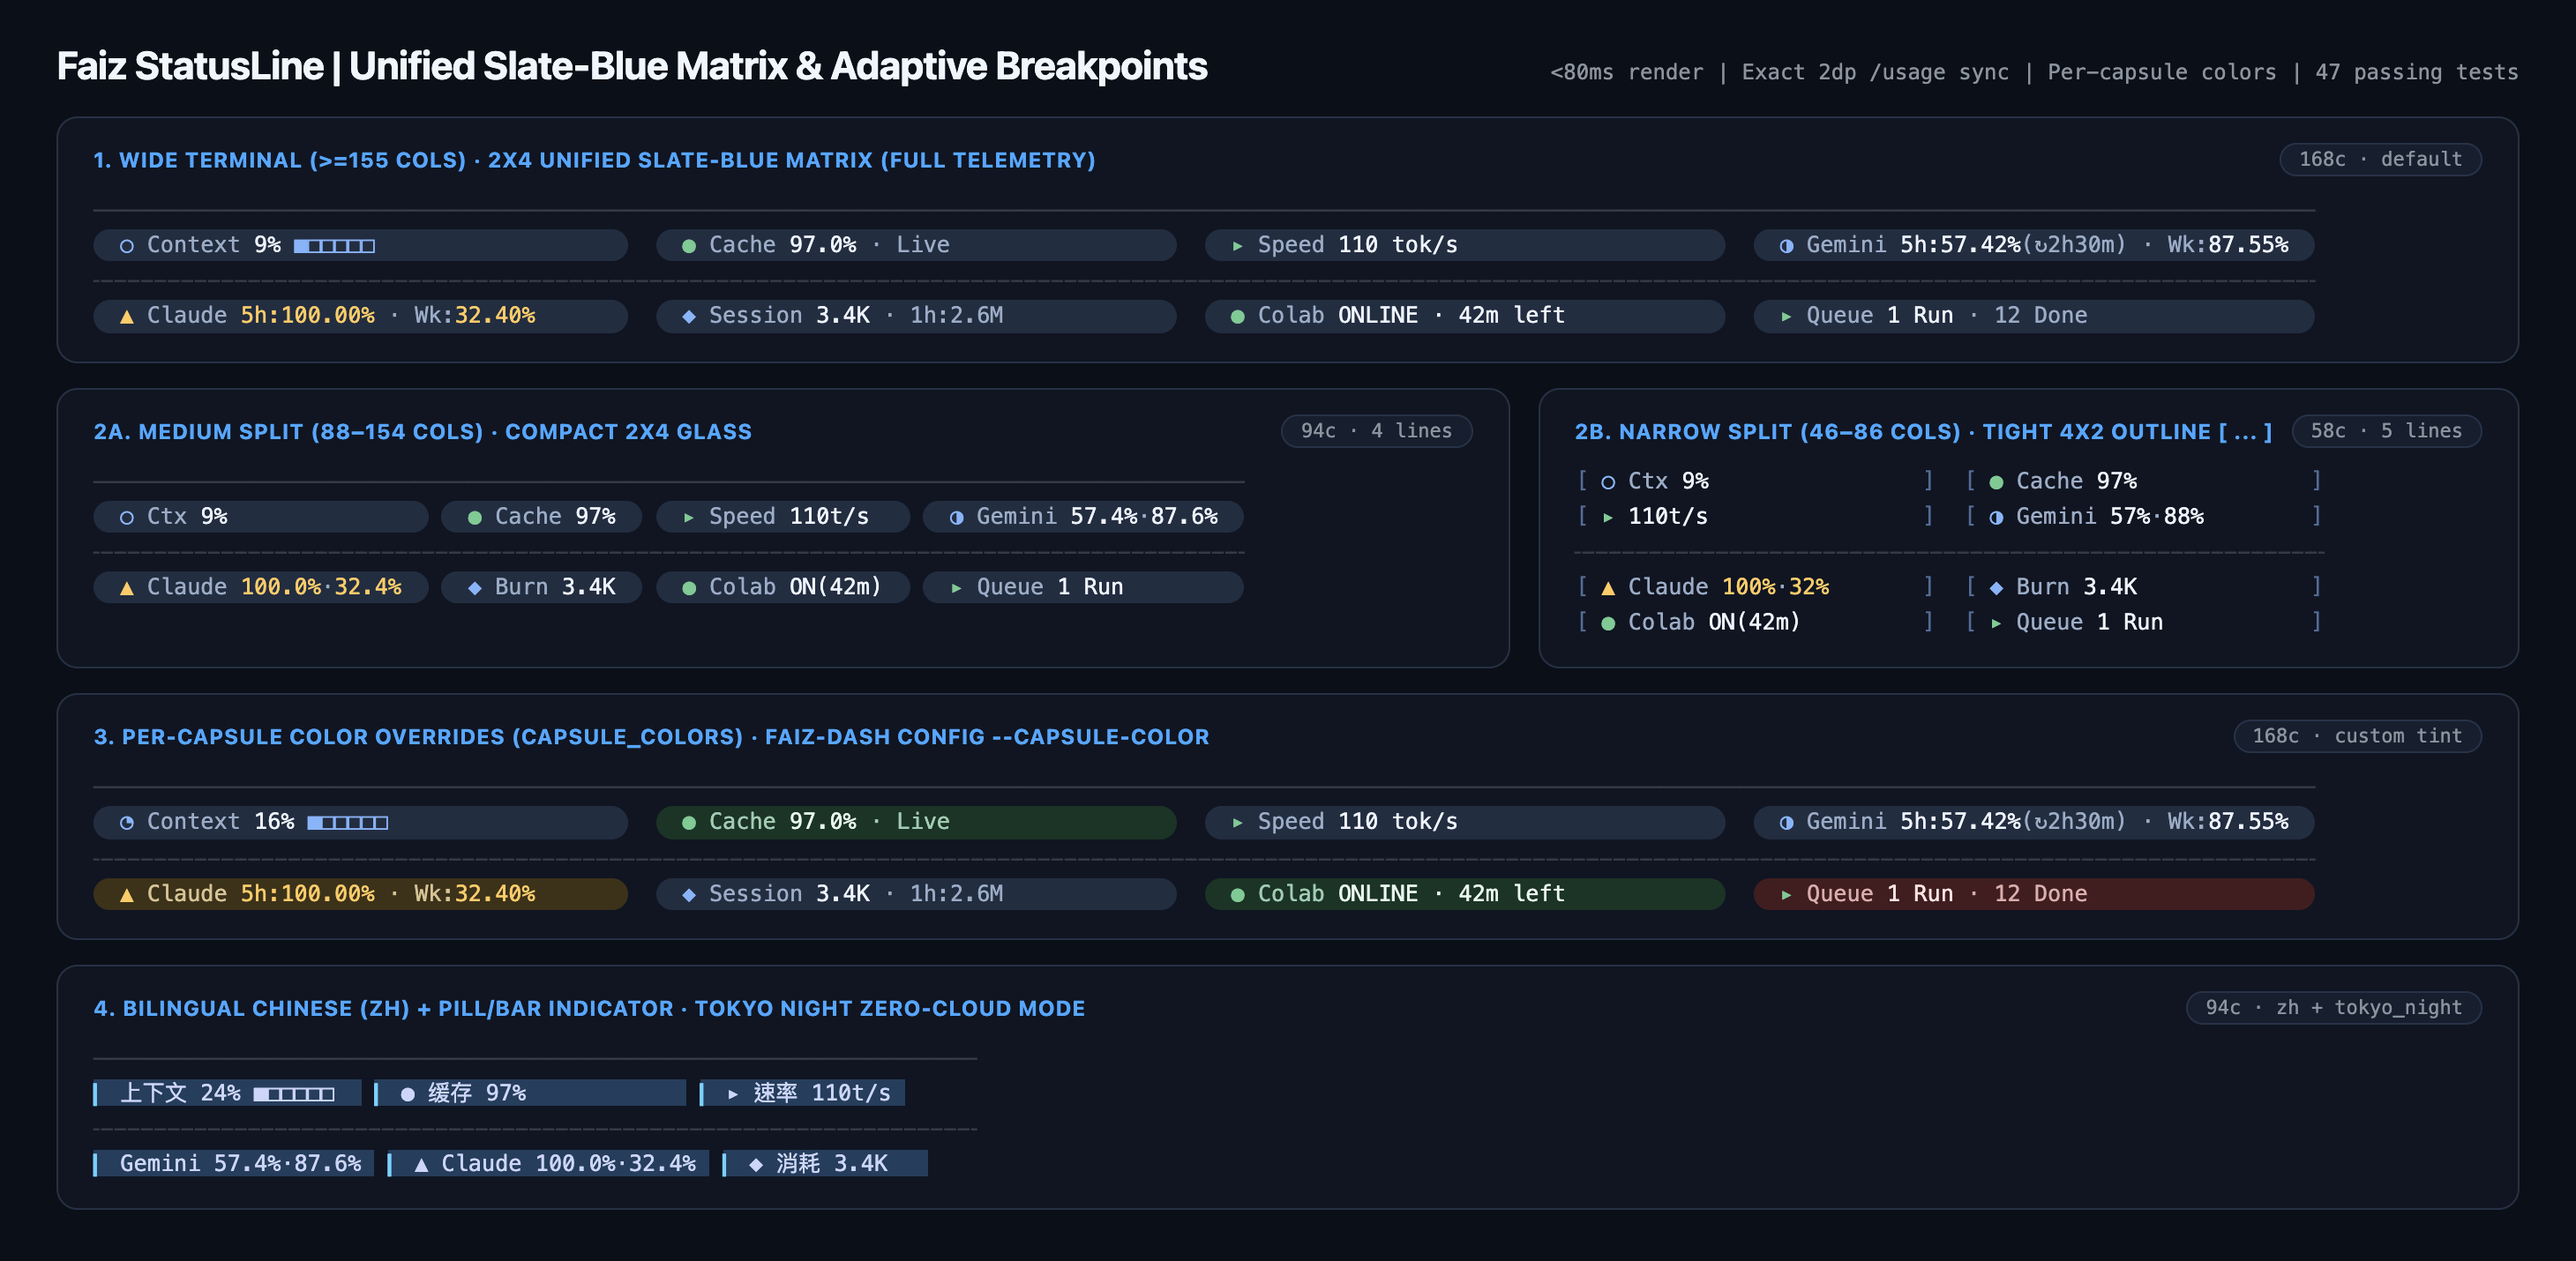
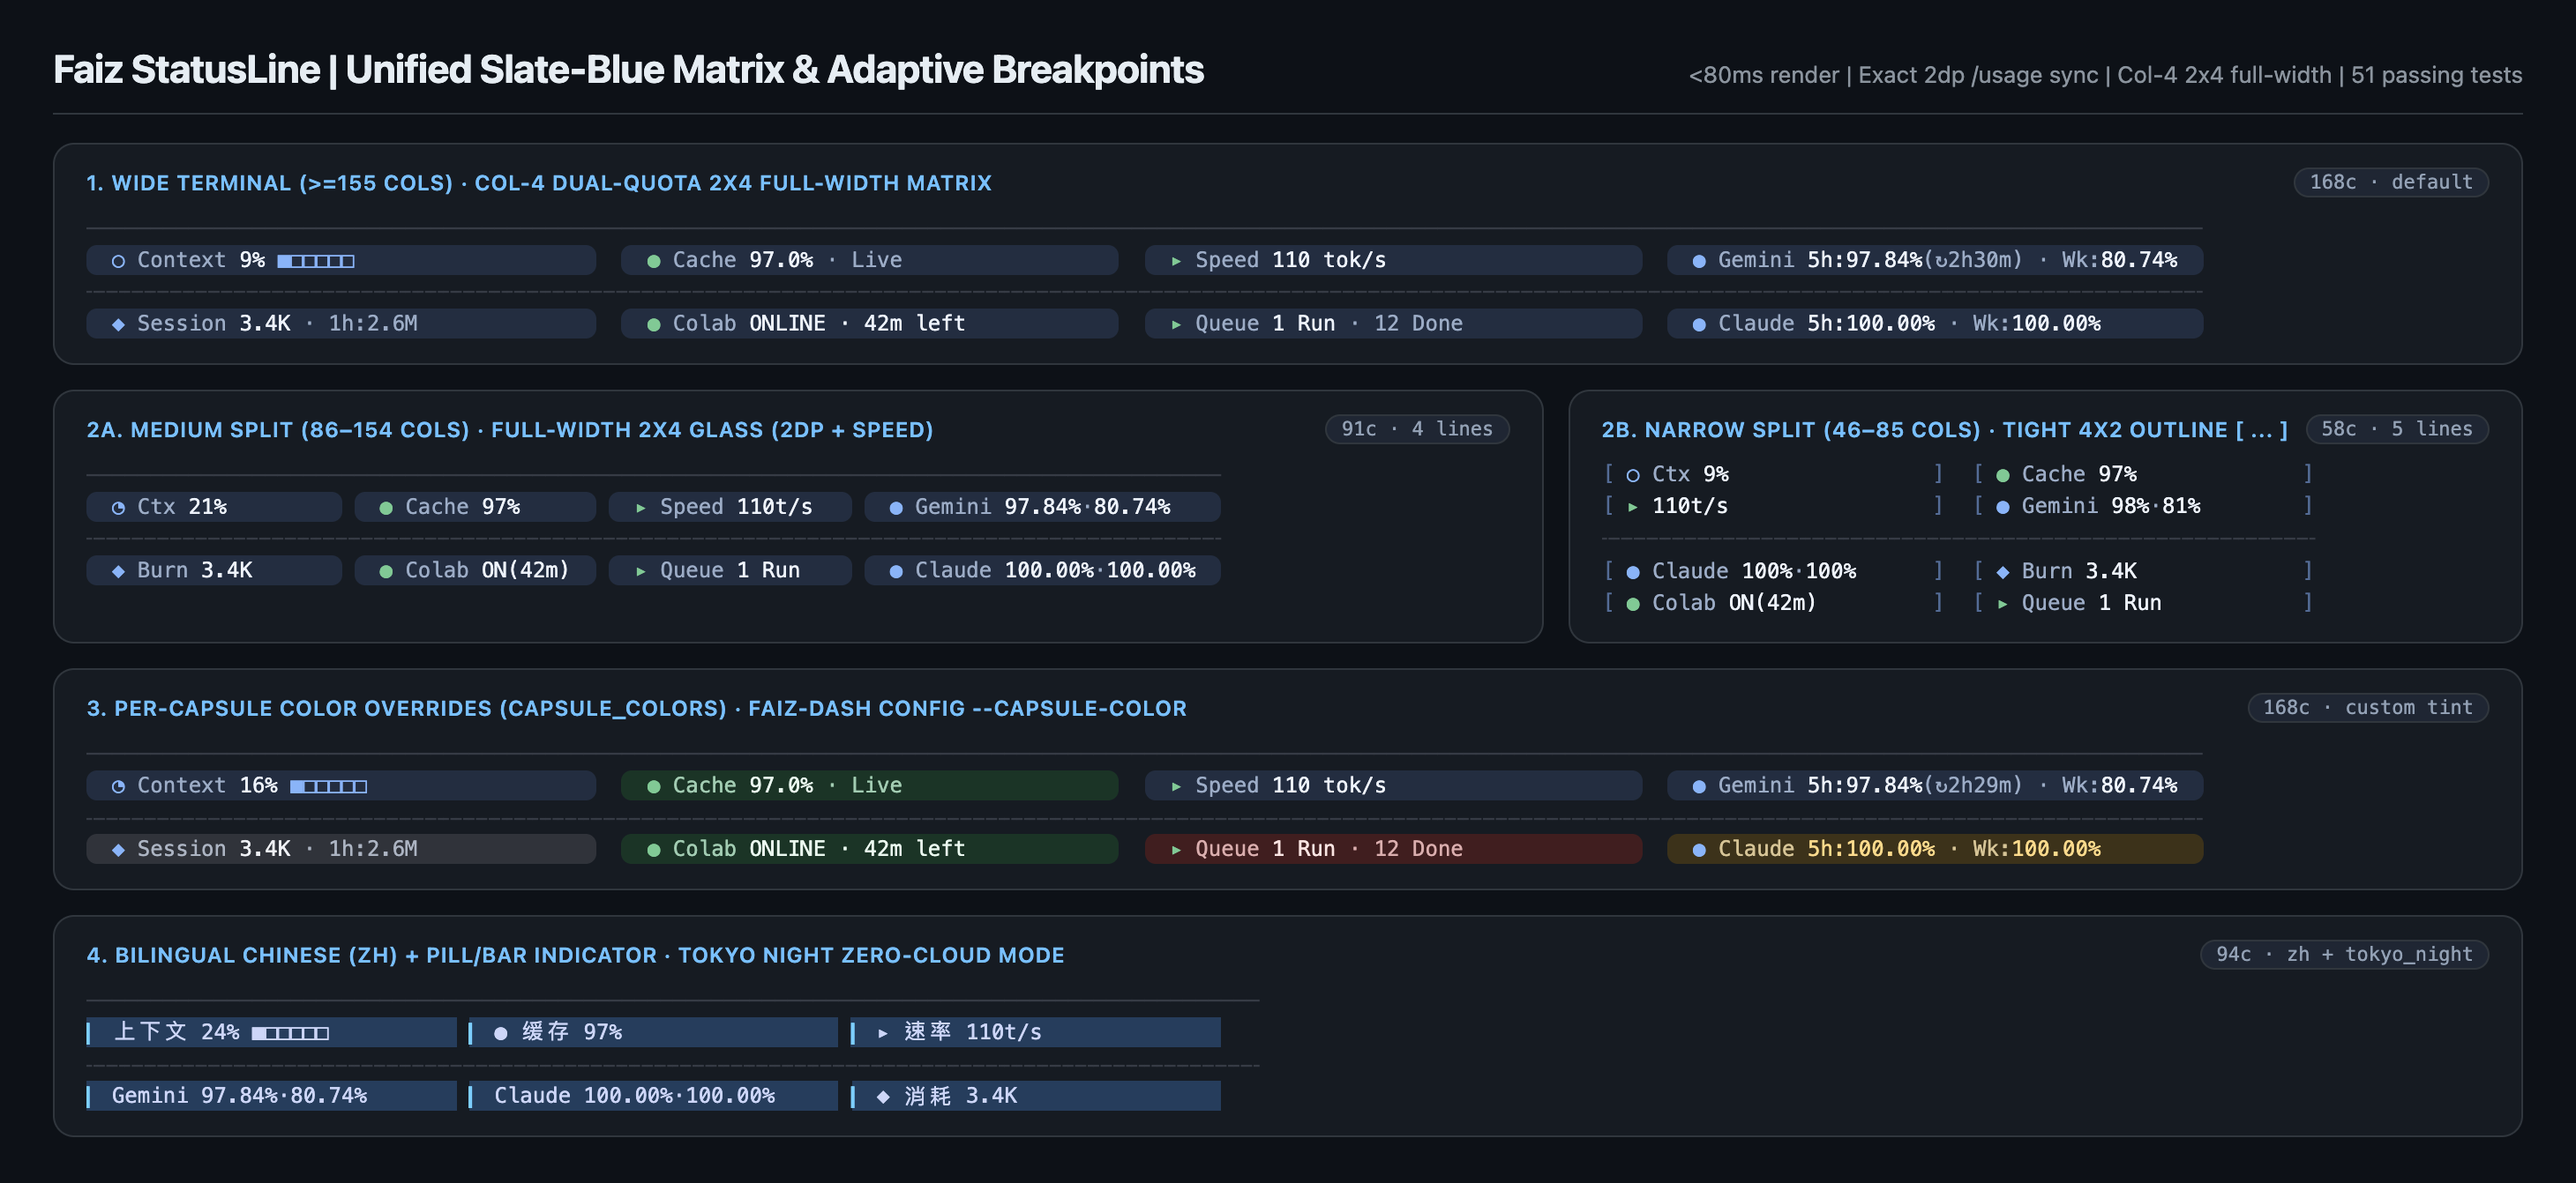
chore(release): bump to v0.2.1, refresh hero showcase, and sync docs

diff --git a/docs/site/index.html b/docs/site/index.html
@@ -258,7 +258,7 @@
     <header class="topbar">
       <div class="brand">
         <span>Faiz Control Center</span>
-        <span class="brand-pill">faiz-dash v0.2</span>
+        <span class="brand-pill">faiz-dash v0.2.1</span>
       </div>
       <nav class="nav-links">
         <a href="#features">Features</a>
@@ -305,7 +305,7 @@
       <div class="grid-2">
         <div class="card">
           <h3>&lt;80ms Responsive Matrix StatusLine</h3>
-          <p>Pure Bash + <code>jq</code> renders sub-80ms 2-bucket <code>Gemini + Claude</code> telemetry in unified deep slate-blue: wide <code>2&times;4</code> bento spread (<code>&gt;=155c</code>), compact 4-line <code>2&times;4</code> glass (<code>88–154c</code>), tight 5-line <code>4&times;2</code> slate-blue <code>[ ... ]</code> outline (<code>46–86c</code>), plus per-capsule color overrides (<code>capsule_colors</code>) and Apple Terminal 16-color fallback.</p>
+          <p>Pure Bash + <code>jq</code> renders sub-80ms 2-bucket <code>Gemini + Claude</code> telemetry in unified deep slate-blue: Col-4 stacked <code>2&times;4</code> full-width water-fill across wide/ultrawide (<code>&gt;=155c</code>, uncapped) and split panes (<code>86–154c</code>, keeping exact 2dp parity, <code>Speed</code> label, and new-session placeholders), tight 5-line <code>4&times;2</code> slate-blue <code>[ ... ]</code> outline (<code>46–85c</code>), plus per-capsule color overrides (<code>capsule_colors</code>) and Apple Terminal 16-color fallback.</p>
         </div>
         <div class="card">
           <h3>Exact 2dp /usage Sync (20s Active / 180s Idle)</h3>

diff --git a/src/faiz_dash/__init__.py b/src/faiz_dash/__init__.py
@@ -1,4 +1,4 @@
 """Faiz Control Center v0.2 package."""
 
-__version__ = "0.2.0"
+__version__ = "0.2.1"
 __all__ = ["__version__"]

diff --git a/README.zh-CN.md b/README.zh-CN.md
@@ -15,7 +15,7 @@
 ## 核心特性
 
 - **`/usage` 双组实时配额对齐（`GEMINI MODELS` + `CLAUDE AND GPT MODELS`）**：通过隔离 PTY 探针采集 5 小时与每周剩余配额（带 `flock` 并发锁，以及基于 `Within each group` 与 `rfind()` 的动态尾帧收敛，兼顾极速返回与防重绘撕裂）；当检测到活跃对话消耗配额时自动切换为 **20 秒高频后台刷新**（空闲保持 180 秒零消耗）。当无独立 Argon 分组时自动以 `Claude` 胶囊与 TUI 面板行替代呈现，同时向后兼容旧版三分组快照与 `capsule_colors.argon` 配色覆盖。
-- **`<80ms` 纯 Bash + `jq` 热路径渲染**：永不阻塞输入提示符。采用统一**深石板蓝**默认视觉与四级自适应矩阵：宽屏（`>=155` 列）自动扩展为完整标签 **`2×4` 铺满矩阵**，中屏分屏（`88–154` 列）保持 **4 行紧凑 `2×4` 玻璃胶囊**（内建 `cold` 标签兜底防塌缩），窄屏分屏（`46–86` 列）自动收紧为 **5 行 `4×2` 石板蓝线框 `[ ... ]` 胶囊**，并支持 `Apple_Terminal` 16 色降级与无云端配置零噪音隐藏。
+- **`<80ms` 纯 Bash + `jq` 热路径渲染**：永不阻塞输入提示符。采用统一**深石板蓝**默认视觉与全宽度自适应矩阵：第 4 栏垂直对齐 `Gemini + Claude` 双配额的 **`2×4` 全宽注水铺满矩阵**覆盖宽/超宽屏（`>=155` 列，无上限铺满）与中屏分屏（`86–154` 列，完整保留两位小数与 `Speed` 标签，并在新开会话自动补齐 `Cache --` / `Speed --` 对称占位），窄屏分屏（`46–85` 列）自动收紧为 **5 行 `4×2` 石板蓝线框 `[ ... ]` 胶囊**，并支持 `Apple_Terminal` 16 色降级与无云端配置零噪音隐藏。
 - **Prompt Cache 命中率与实时输出速率 (`t/s`)**：仅增量读取当前会话 `transcript.jsonl` 尾行，实时呈现缓存命中率、3m/4m TTL 冷却预警与真实输出速度 (`t/s`)。
 - **零常驻挤压的双通道检视**：
   - **会话内气泡式诊断（`/faiz-dash` / `faiz-dash inspect`）**：不占用终端列宽，直接输出配额分组与重置倒计时、24 小时各模型 Token Burn、Cloud/Drive 退避与 `colab_source` / `colab_gpu` / `drive_backend` 遥测、Mailbox 队列核验与只读 APM 遥测摘要。
@@ -143,4 +143,4 @@ faiz-dash config          # 打开双语实时预览设置中心
 PYTHONPATH=src python3 -m unittest discover -s tests -v
 ```
 
-[GitHub Actions CI](.github/workflows/ci.yml) 在 Ubuntu 与 macOS 上自动校验 Shell 语法、`styles.tcss` 打包完整性以及全部 47 项单元与 Textual Pilot 集成测试。采用 [MIT License](LICENSE) 开源。
+[GitHub Actions CI](.github/workflows/ci.yml) 在 Ubuntu 与 macOS 上自动校验 Shell 语法、`styles.tcss` 打包完整性以及全部 51 项单元与 Textual Pilot 集成测试。采用 [MIT License](LICENSE) 开源。

diff --git a/README.md b/README.md
@@ -15,7 +15,7 @@ English | [简体中文](README.zh-CN.md)
 ## Highlights
 
 - **Exact `/usage` Quota Parity (`GEMINI MODELS` + `CLAUDE AND GPT MODELS`)**: Captures live 5-hour & weekly remaining limits via an isolated PTY `/usage` probe (`flock`-guarded, dynamic `Within each group` + `rfind()` frame settle for fast PTY convergence without repaint tearing) with **activity-aware 20s refresh** when active turns burn quota (180s when idle). Renders dedicated `Gemini` and `Claude` capsules & TUI rows when standalone Argon is absent while staying backward-compatible with legacy 3-bucket snapshots and `capsule_colors.argon` overrides.
-- **Sub-80ms Pure Bash + `jq` StatusLine**: Never blocks prompt rendering. Features a unified **deep slate-blue** palette with a 4-tier responsive matrix: full-label **wide `2×4` glass spread** (`>=155` cols), compact 4-line **`2×4` glass** (`88–154` cols, with cold-tag compaction rescue), tight **5-line `4×2` slate-blue `[ ... ]` outline** (`46–86` cols), plus `Apple_Terminal` 16-color fallback and zero-noise cloud hiding.
+- **Sub-80ms Pure Bash + `jq` StatusLine**: Never blocks prompt rendering. Features a unified **deep slate-blue** palette with a responsive matrix: Col-4 stacked `Gemini + Claude` **`2×4` full-width water-fill** across wide/ultrawide (`>=155` cols, uncapped) and split panes (`86–154` cols, preserving exact 2-decimal precision, `Speed` label, and symmetrical `Cache --` / `Speed --` new-session placeholders), tight **5-line `4×2` slate-blue `[ ... ]` outline** (`46–85` cols), plus `Apple_Terminal` 16-color fallback and zero-noise cloud hiding.
 - **Prompt Cache Hit & Live Token Speed (`t/s`)**: Reads only the trailing tail of the active session `transcript.jsonl` to surface Cache Hit %, 3m/4m TTL cooldown alerts, and real-time output generation speed (`t/s`).
 - **Zero-Clutter On-Demand Inspection**:
   - **In-chat Diagnostic Bubble (`/faiz-dash` / `faiz-dash inspect`)**: Outputs a clean Markdown summary of all quota buckets, reset countdowns, 24h per-model token burn, cloud/drive backoff & `colab_source` / `colab_gpu` / `drive_backend` telemetry, mailbox items, and read-only APM telemetry without occupying terminal width.
@@ -174,7 +174,7 @@ If your workflow runs remote workers on Google Colab + Drive (`gdrive` CLI / `rc
 PYTHONPATH=src python3 -m unittest discover -s tests -v
 ```
 
-GitHub Actions CI ([`.github/workflows/ci.yml`](.github/workflows/ci.yml)) verifies shell syntax, `styles.tcss` wheel packaging, and all 47 unit/integration/Textual Pilot tests across Ubuntu & macOS.
+GitHub Actions CI ([`.github/workflows/ci.yml`](.github/workflows/ci.yml)) verifies shell syntax, `styles.tcss` wheel packaging, and all 51 unit/integration/Textual Pilot tests across Ubuntu & macOS.
 
 ## License
 
